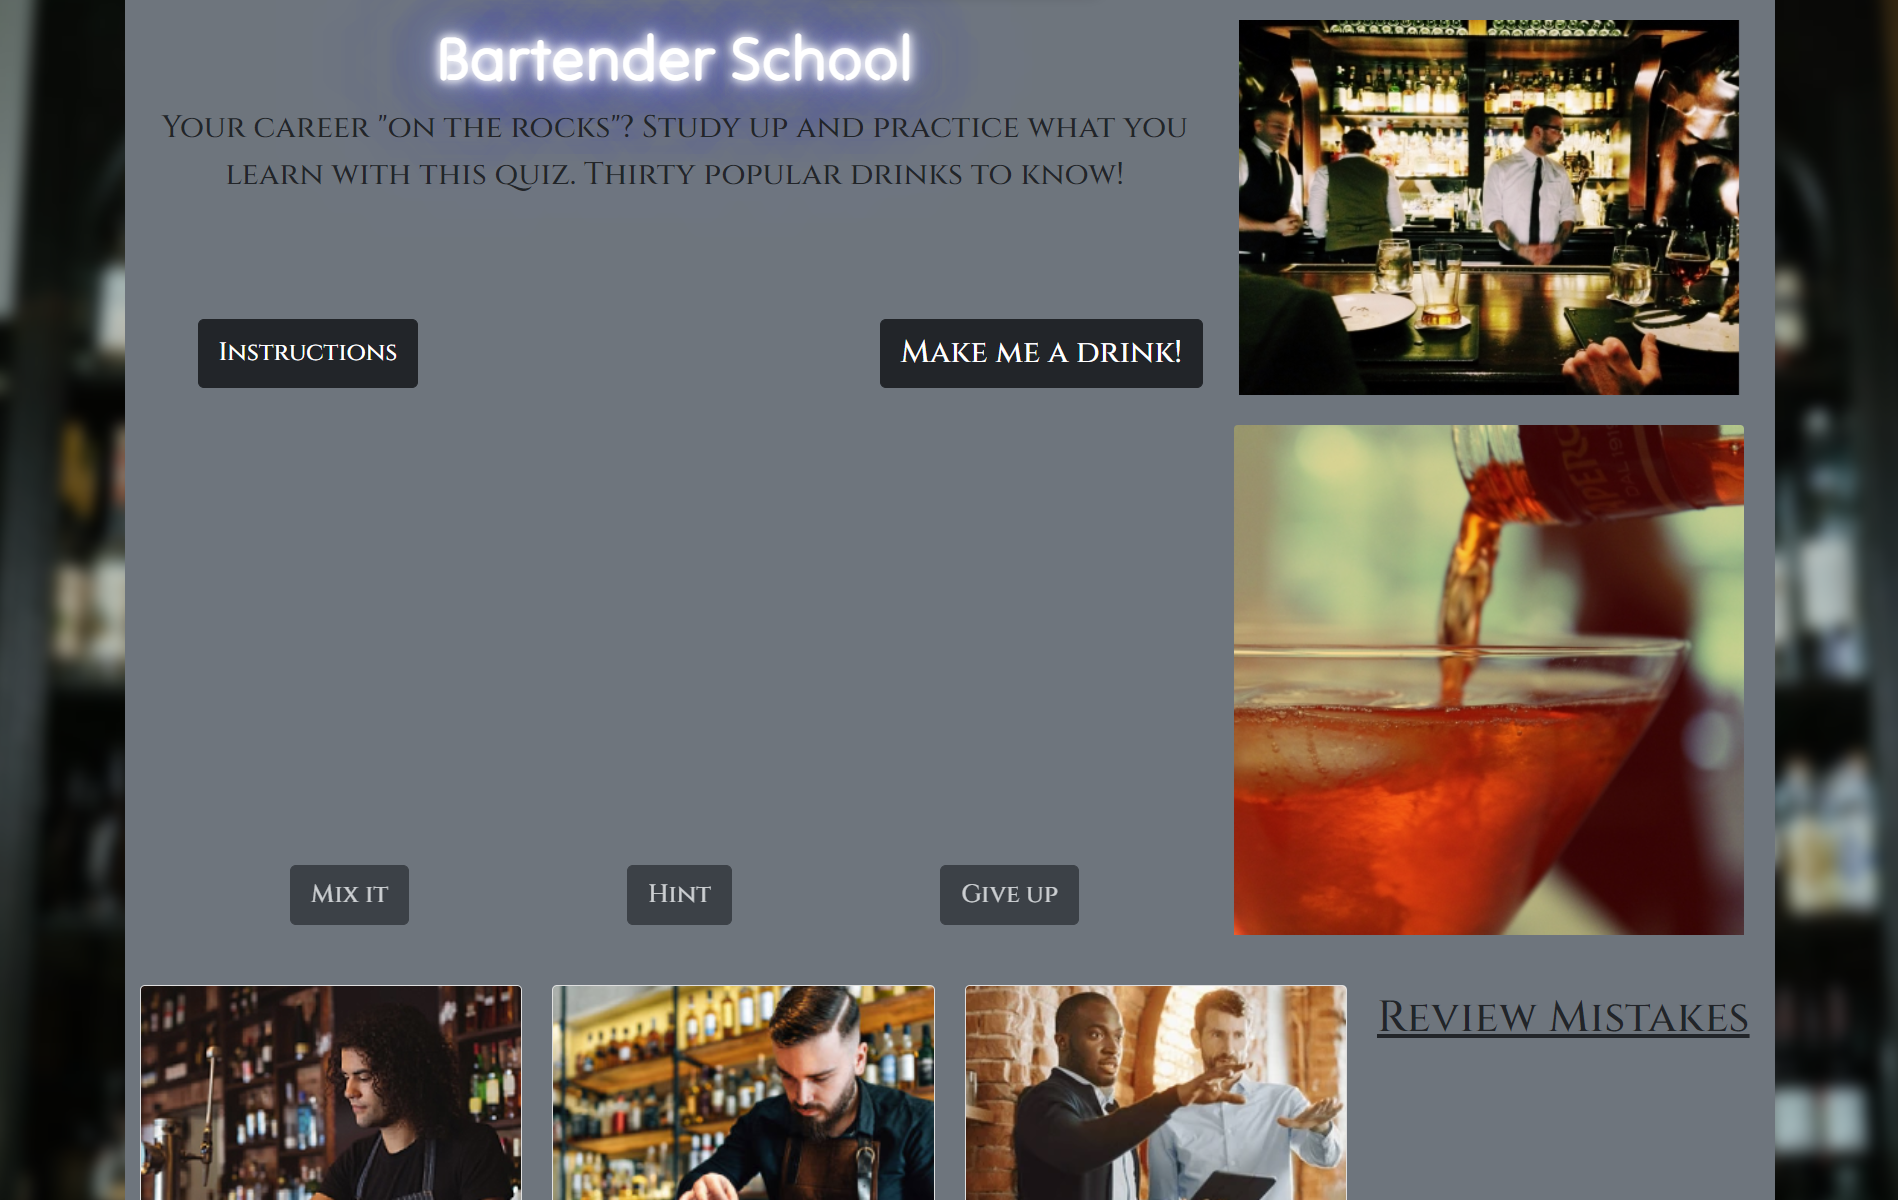
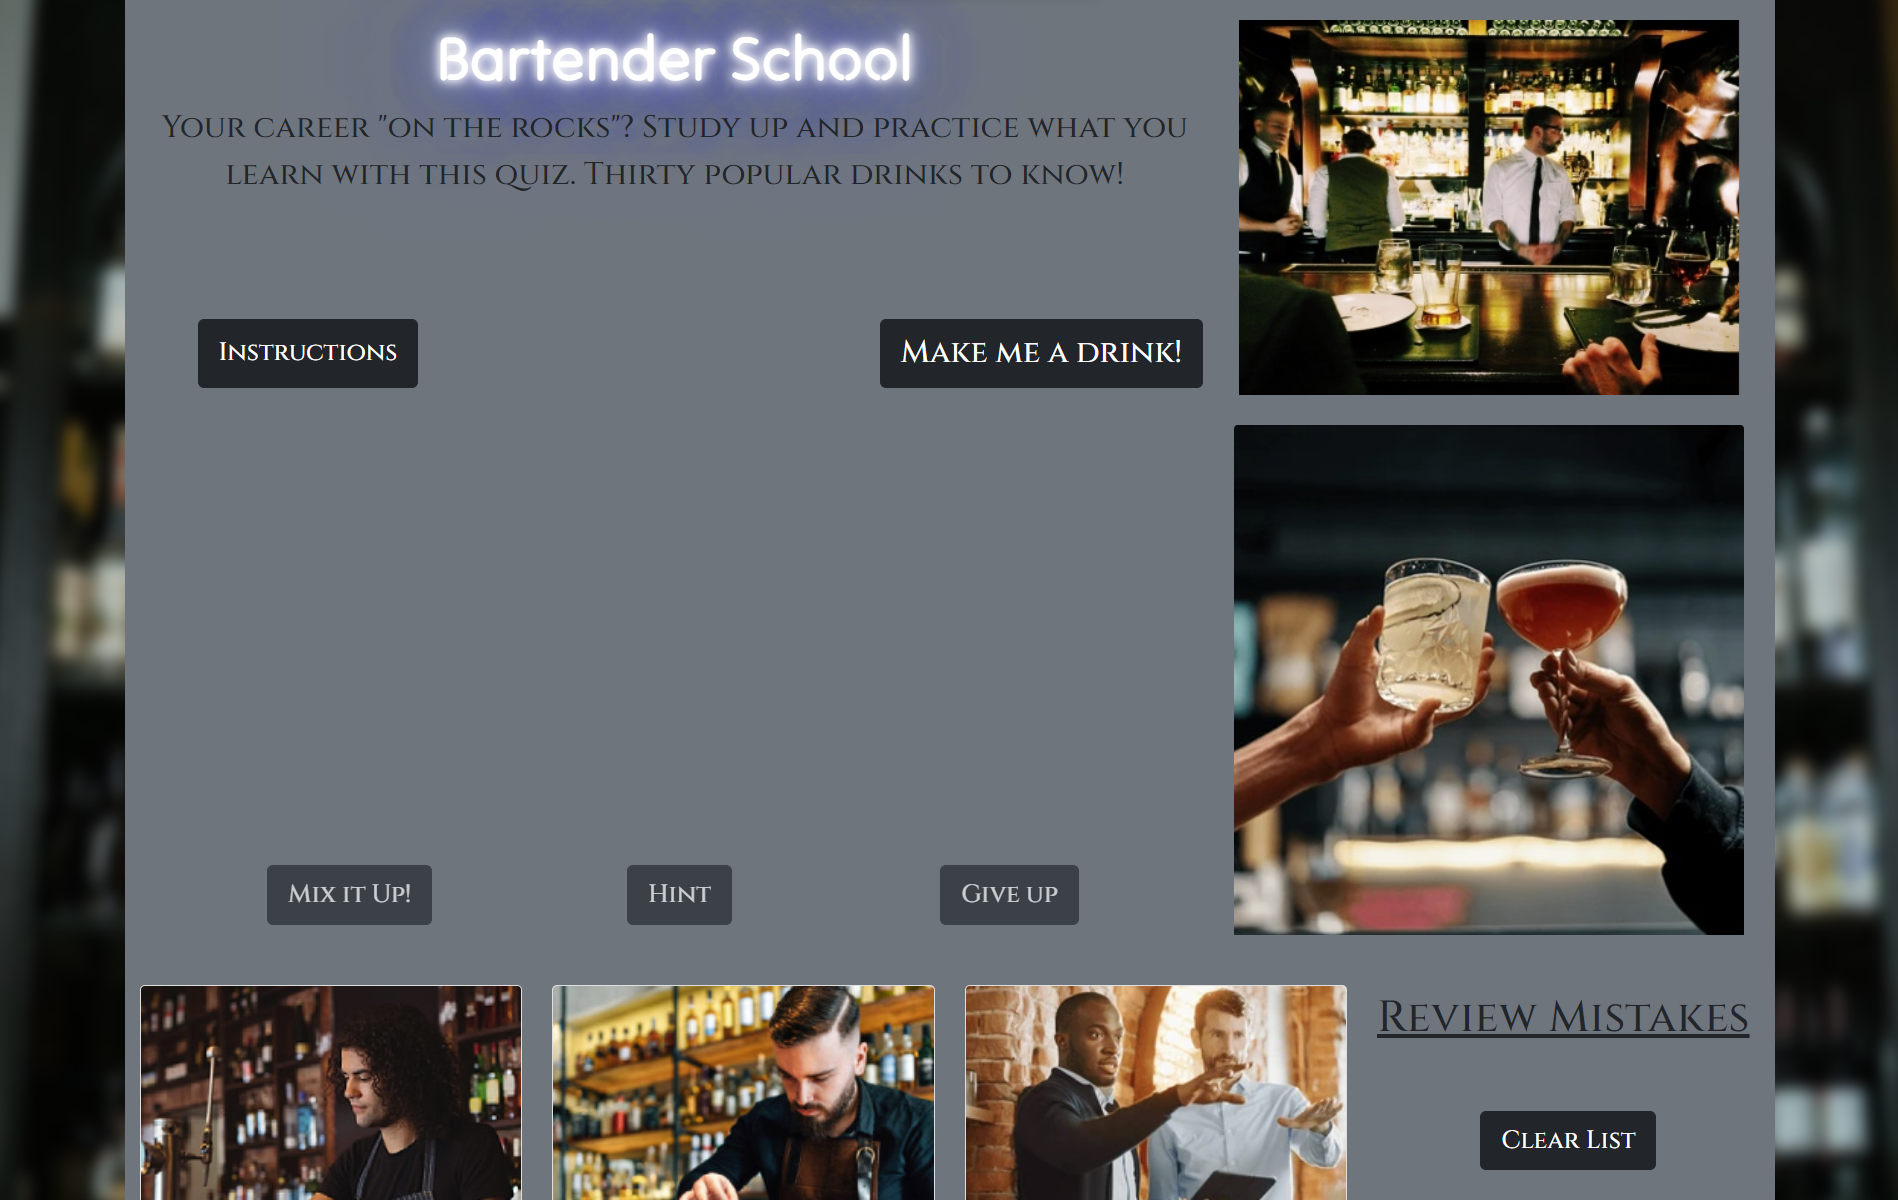
adjusted button column

Changed region(s): [[0.6528, 0.3392, 0.9326, 0.8017], [0.7771, 0.925, 0.8704, 0.9867], [0.1243, 0.7092, 0.2487, 0.7708]]

diff --git a/index.html b/index.html
@@ -210,7 +210,7 @@
                </div>
             </div>
             <!-- Put new button here that will clear the list -->
-            <div id="clearList" class="col-md-4 pt-4 mt-4" style="display: flex; justify-content: center">
+            <div id="clearList" class="col-12 pt-4 mt-4" style="display: flex; justify-content: center">
                <button id="clearListBtn" class="btn btn-lg btn-dark cinzel">Clear List</button>
             </div>
          </div>
